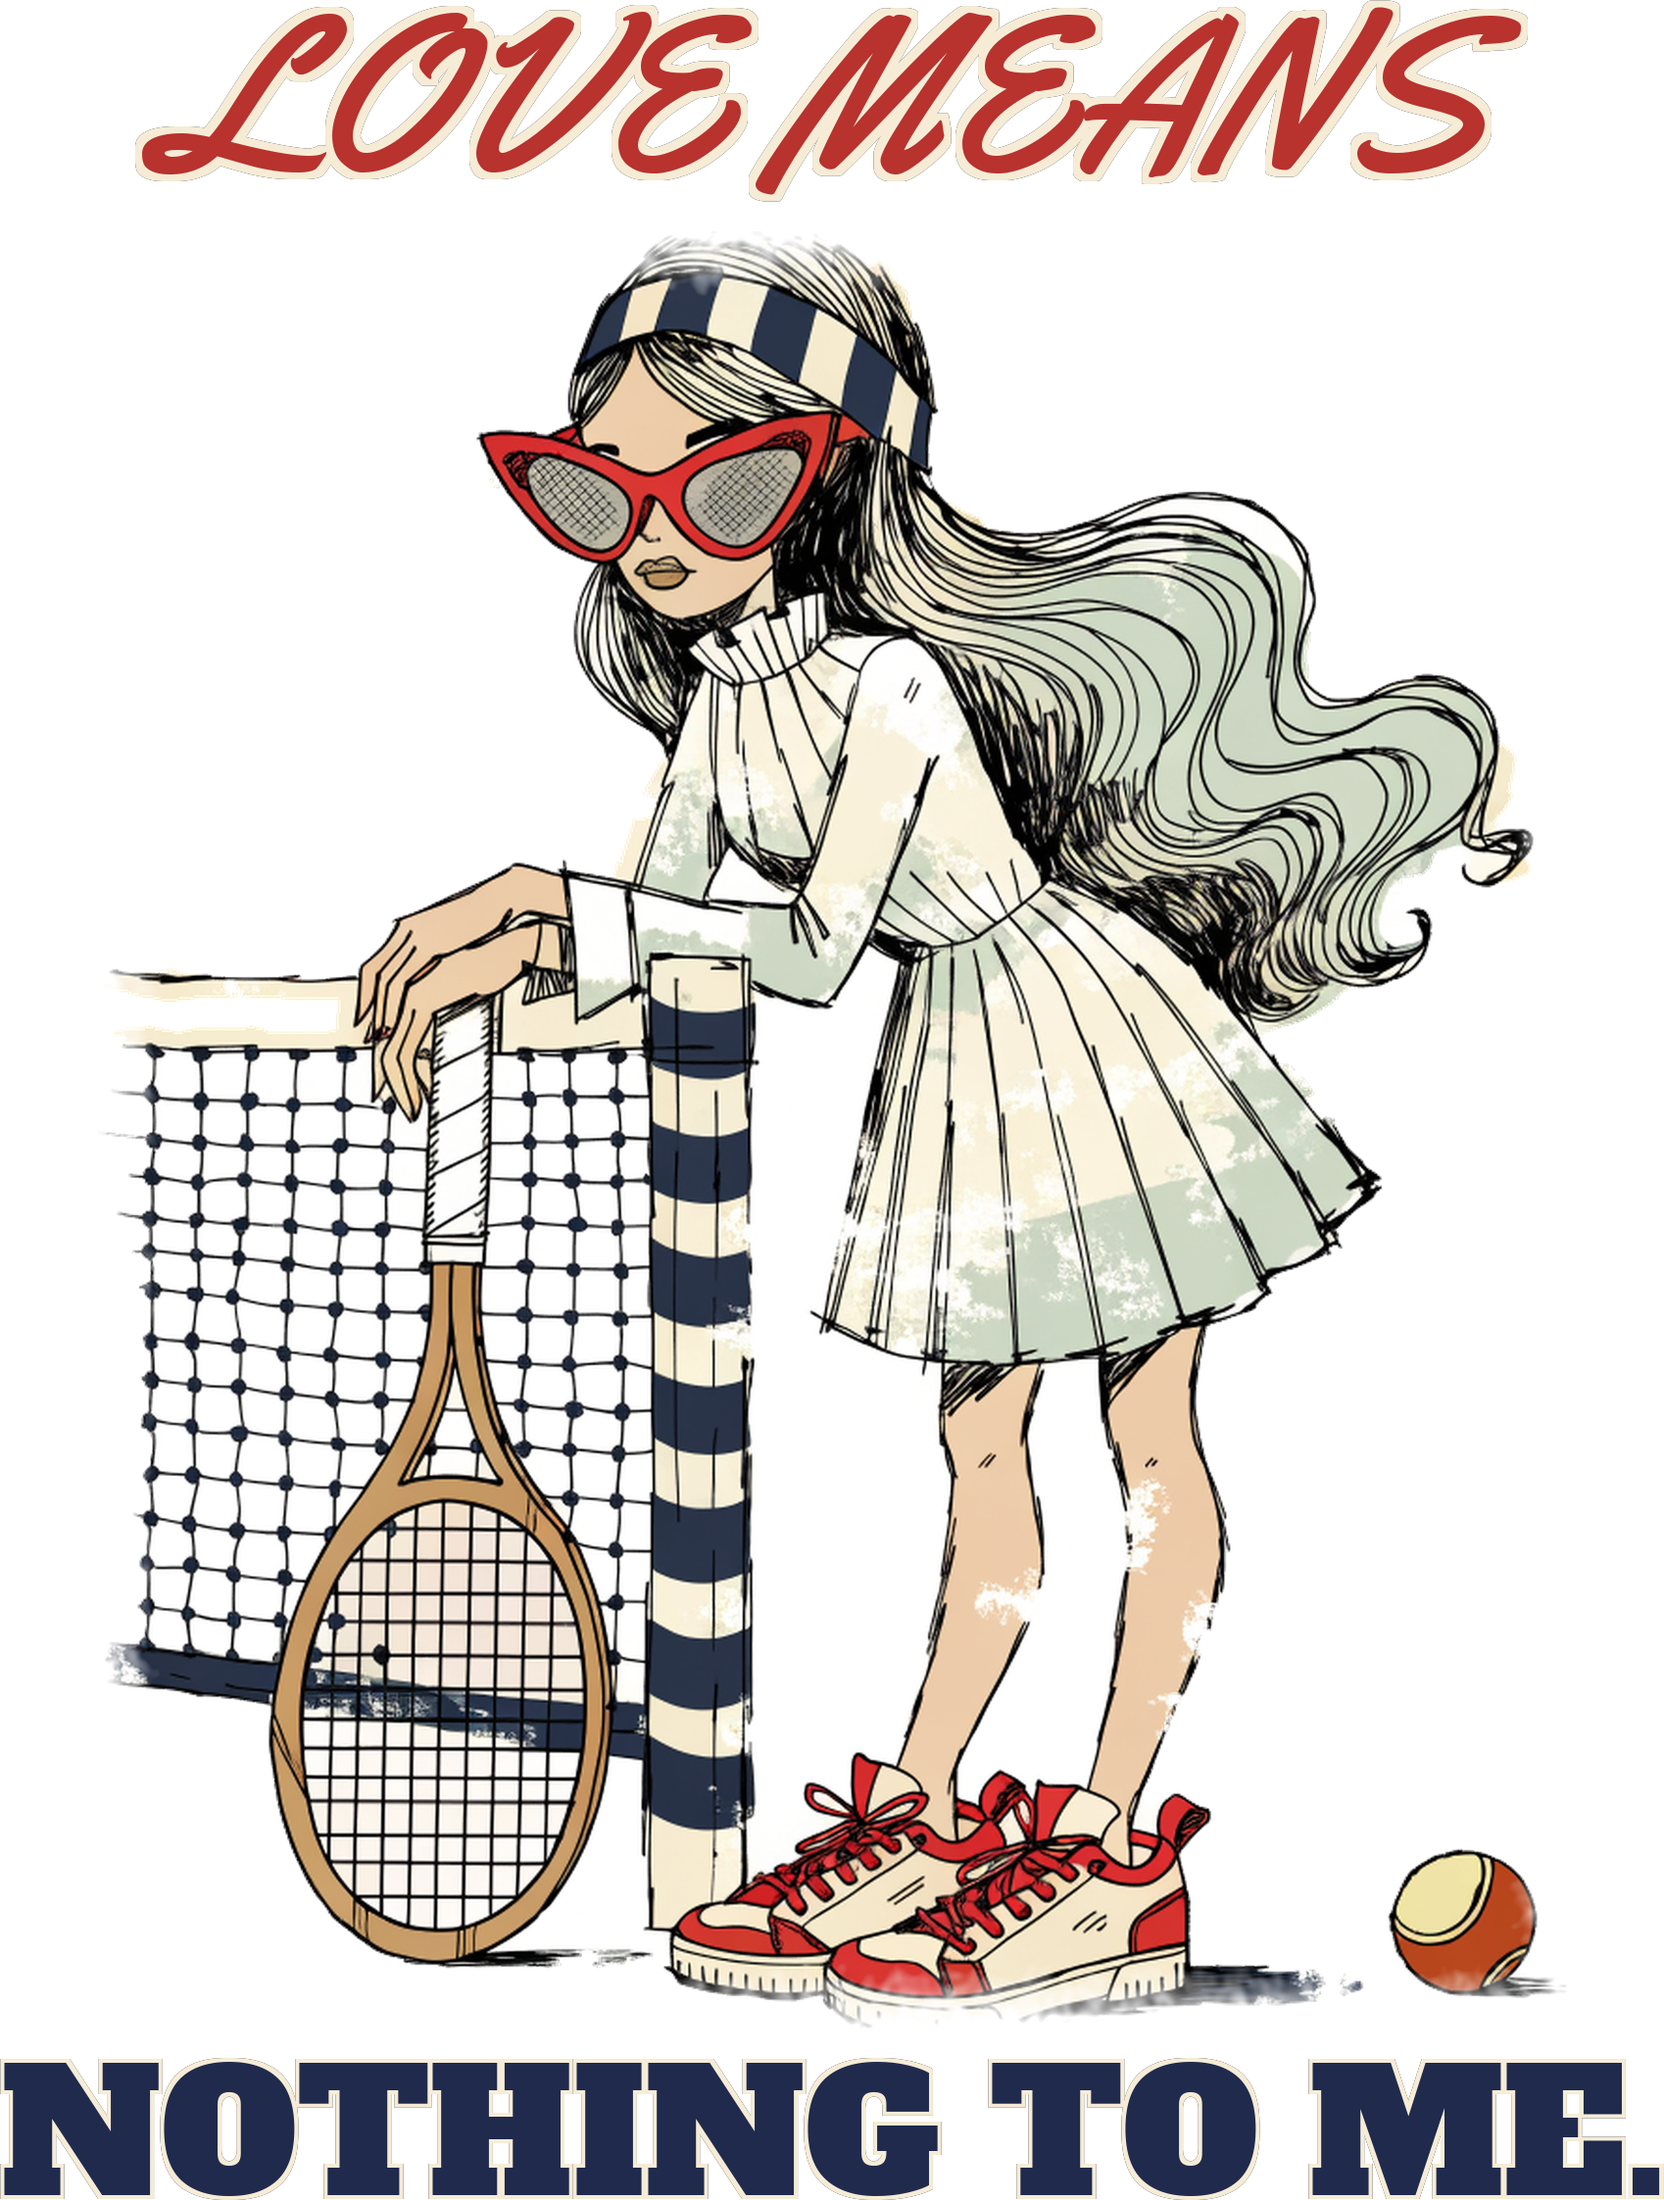
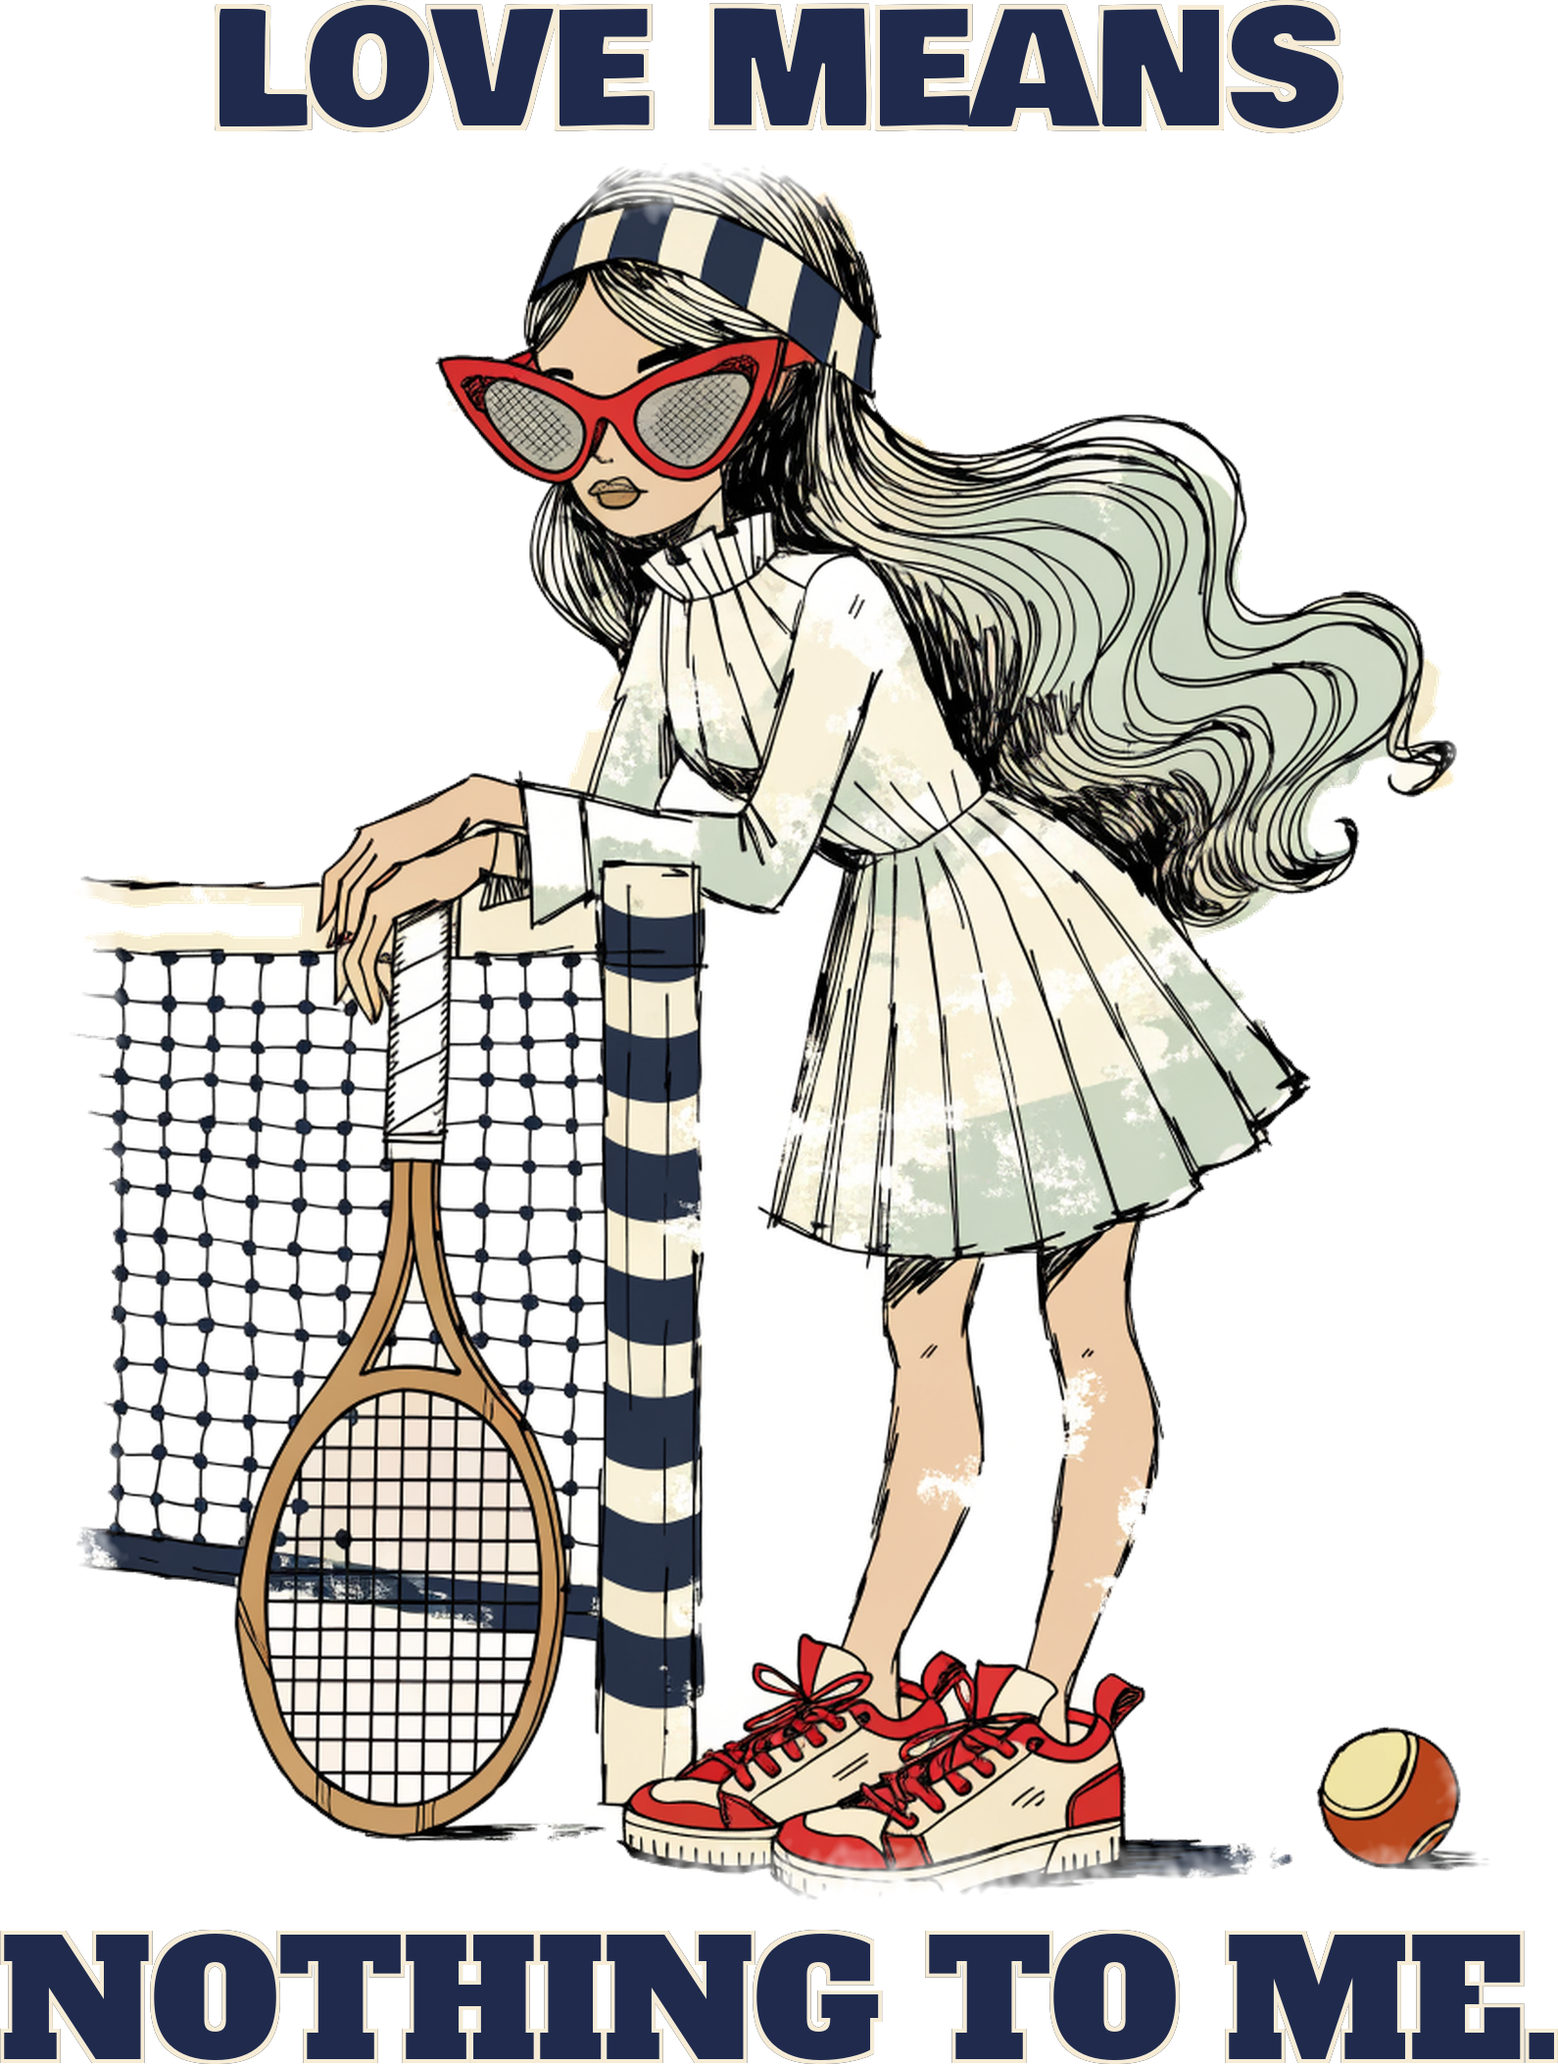
[B] 602 redo print

diff --git a/designs/b602/build.py b/designs/b602/build.py
@@ -2,9 +2,9 @@ import sys, os; sys.path.insert(0,'.')
 from designs.c_common import *
 AW, W, hf, pf = int(sys.argv[1]), int(sys.argv[2]), float(sys.argv[3]), float(sys.argv[4])
 art = load_art('designs/b602/art_pp.png', minarea=1500); art = art.resize((AW, round(art.height * AW / art.width)), Image.LANCZOS)
-RED = (184, 50, 46, 255); NAVY = (31, 42, 77, 255)
-hd = line('LOVE MEANS', 'yellowtail', hf, W, RED, CREAM, kw=15); pn = line('NOTHING TO ME.', 'alfa', pf, W, NAVY, CREAM, kw=9)
+NAVY = (31, 42, 77, 255)
+hd = line('LOVE MEANS', 'bowlby', hf, W, NAVY, CREAM, kw=11); pn = line('NOTHING TO ME.', 'alfa', pf, W, NAVY, CREAM, kw=9)
 out = lockup(art, W, [hd], [pn], 'b602', {'white': (250, 250, 250, 255)}, g=30)
 out = out.crop(out.getchannel('A').point(lambda v: 255 if v > 10 else 0).getbbox()); out.save('docs/print-files/602-tennis.png', dpi=(300, 300)); os.remove('docs/print-files/b602.png')
 th = hd.height + pn.height
-print(out.size, 'aspect', round(out.height / out.width, 2), 'headline', hd.width, 'punch', pn.width, 'art', art.width, 'punch/art', round(pn.width / art.width, 2), 'type', th, 'of', out.height, round(th / out.height, 2), 'subject', round(art.width / out.width, 2))
+print('setup/punch height', round(hd.height/pn.height,2)); print(out.size, 'aspect', round(out.height / out.width, 2), 'headline', hd.width, 'punch', pn.width, 'art', art.width, 'punch/art', round(pn.width / art.width, 2), 'type', th, 'of', out.height, round(th / out.height, 2), 'subject', round(art.width / out.width, 2))
